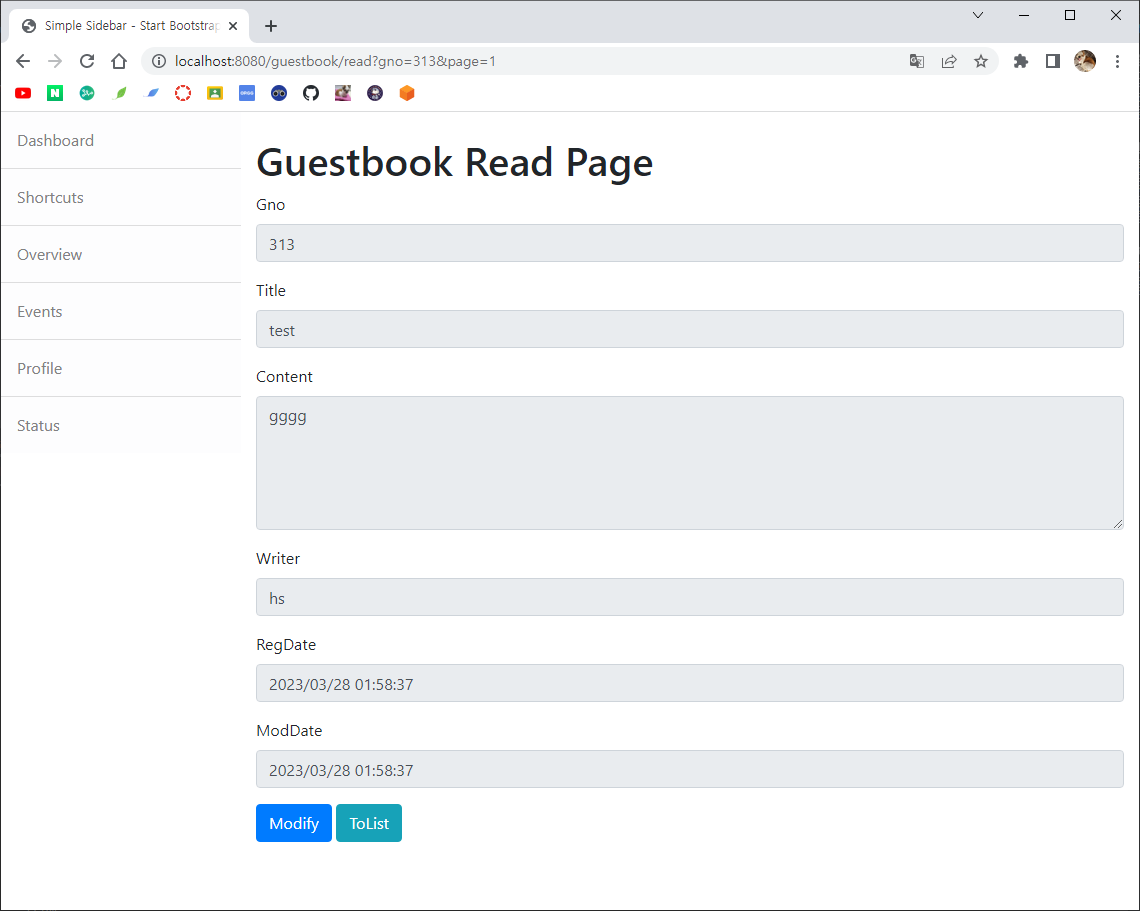
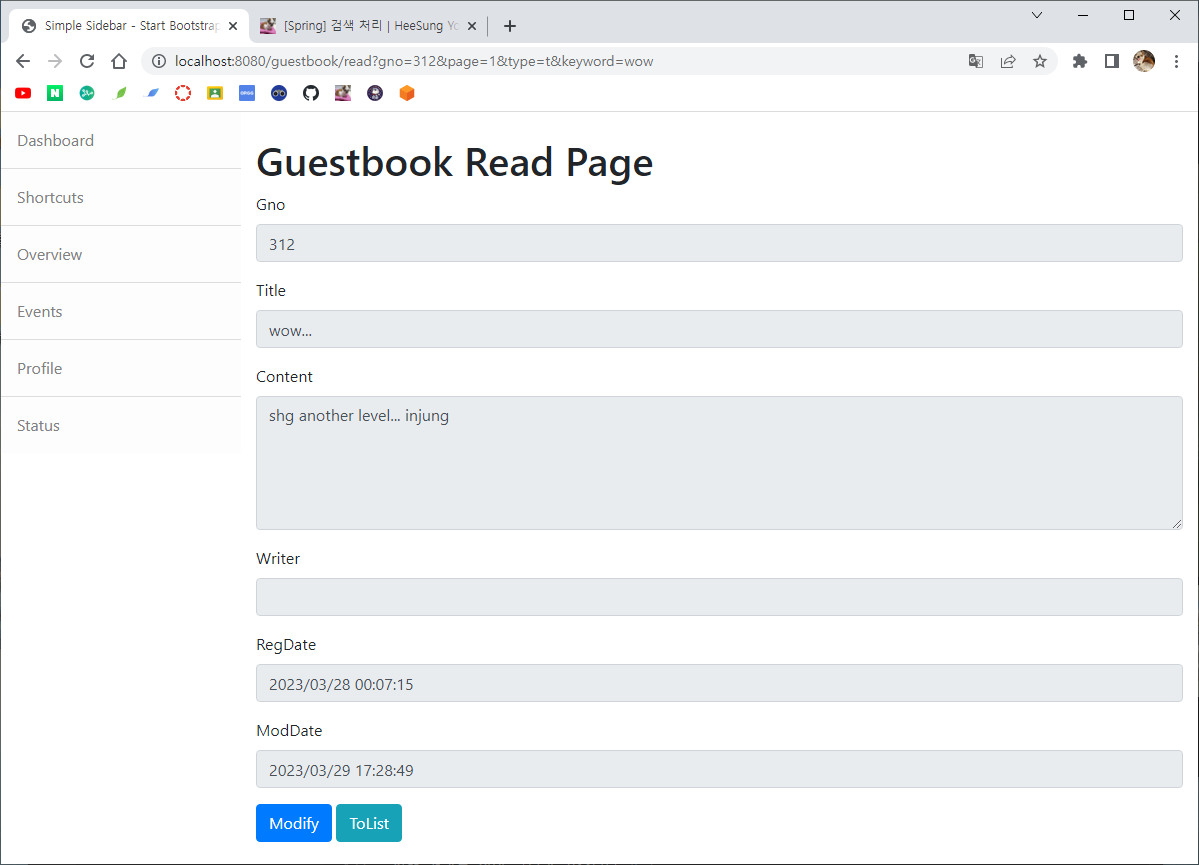
스프링 게시글 수정

diff --git a/_posts/study/spring/2023-03-29-[Spring]_검색_처리.md b/_posts/study/spring/2023-03-29-[Spring]_검색_처리.md
@@ -9,174 +9,241 @@ image:
     path: /assets/img/study_Web/spring/logo.png
 ---
 
-생성한 프로젝트의 엔티티와 Querydsl의 테스트를 수행해 봅시다.
+화면에서 검색 처리가 가능하도록 기능을 구현해봅시다.
 
 <!--more-->
 
 * this unordered seed list will be replaced by the toc
 {:toc}
 <br>
-Thymeleaf의 레이아웃은 JSP의 include와 같이 특정 부분을 외부, 내부에서 가져와 포함하는 형태와 특정한 부분을 파라미터로 전달해 내용에 포함하는 형태로 두 가지의 방식이 존재합니다. 먼저 include 형태부터 살펴보겠습니다.
+검색 처리는 PageRequestDTO에 type과 keyword를 추가하고 서비스 계층에서 Querydsl을 이용해 수행합니다. 이 때 제목, 내용, 작성자를 각각 t, c, w라고 할 때 't, w, c', 'tw', 'twc'와 같이 검색 항목을 여러개로 선택해 검색할 수 있도록합니다.
 
 ---
 <br>
 
-# 1. SampleController 코드 추가 (include 방식)
+# 1. PageRequestDTO 클래스 수정
 ---
 <br>
 
 ![1](/assets/img/study_Web/spring/2023-03-29-[Spring]_검색_처리/1.png)
 <br>
 
-실습을Controller에 위의 그림과 같은 exLayout1()을 추가합니다.<br>
+먼저 PageRequestDTO에 조건(type)과 키워드(keyword)를 추가합니다.
 
-# 2. fragment1.html 작성
+# 2. GuestbookServiceImpl 클래스 수정 (getSearch())
 ---
 <br>
 
 ![2](/assets/img/study_Web/spring/2023-03-29-[Spring]_검색_처리/2.png)
 <br>
 
-이번에 구현하고자 하는 exLayout.html은 내부적으로 다른 파일에 있는 일부분을 조각처럼 가져와 구성합니다. 이러한 조각이 될 수 있는 fragments 폴더를 작성하고 조각이 될 fragment1.html을 생성한 뒤 위와 같은 내용을 작성합니다.<br>
-th:fragment라는 태그를 통해 표현합니다.<br>
+Querydsl의 BooleanBuilder를 이용해 동적으로 검색 조건이 처리되게 하도록 GuestbookServiceImpl 내에 getSerach() 메소드를 작성합니다.<br>
+getSearc()는 매개변수로 PageRequestDTO를 받아와 type가 존재한다면 conditionBuilder를 사용해 각 검색 조건을 or로 연결해 처리합니다. 검색 조건이 없다면 모든 게시글이 나오도록 gn > 0을 조건으로 해 검색하도록 합니다.<br>
 
-# 3. exLayout1.html 작성
+
+# 3. GuestbookServiceImpl 클래스 수정 (getList())
 ---
 <br>
 
 ![3](/assets/img/study_Web/spring/2023-03-29-[Spring]_검색_처리/3.png)
 <br>
 
-이제 화면이 될 exLayout1.html을 추가한 뒤 fragment1.html의 조각들을 가져와 사용하는 코드를 작성합니다.<br>
-th:replace, th:insert, th:bolck th:replace를 사용해 fragment1의 조각을 각각 다르게 가져와보겠습니다.<br>
+이 때 목록을 가져오는 getList()를 수정해야 합니다.<br>
+기존의 pageable만 사용해 목록을 가져오는 것이 아닌 getSearch()의 반환값 booleanBuilder를 사용해 검색 조건과 같이 목록을 가져올 수 있도록 수정합니다.<br>
 
 
-# 4. exLayout1.html 실행 결과
+# 4. getSearch() 테스트
 ---
 <br>
 
 ![4](/assets/img/study_Web/spring/2023-03-29-[Spring]_검색_처리/4.png)
 <br>
 
-실행 결과 개발자 도구를 살펴보면 가져온 결과가 다른 것을 확인할 수 있습니다.<br>
-th:insert의 경우 th:replace와 달리 \<div\> 태그 내에 다시 \<div\> 태그가 생성된 것을 확인할 수 있습니다.<br>
+작성한 getSearch()를 통해 검색 조건이 잘 처리되나 testSearch() 메소드를 작성해 확인합니다.<br>
+검색 조건으로 제목과 내용 중 'shg'라는 단어가 포함된다면 결과를 출력하도록 테스트 코드를 작성합니다<br>
 
-# 5. fragment2.html 작성
+# 5. getSearch() 테스트 결과
 ---
 <br>
 
 ![5](/assets/img/study_Web/spring/2023-03-29-[Spring]_검색_처리/5.png)
 <br>
 
-이번엔 파일의 일부분을 가져오는 것이 아닌 파일의 전체를 가져오는 실습을 해보겠습니다.<br>
-실습을 위해 fragment2.html을 생성한 뒤 위와 같은 코드를 작성합니다.<br>
+실행 결과를 스텍트레이스를 통해 살펴보면 쿼리문 바깥에 gno > 0과 type과 쿼리문 안쪽에 keyword를 사용한 like문이 and로 처리되는 것을 확인할 수 있습니다.<br>
+검색의 결과로 312번 방명록이 검색되었고 검색된 방명록이 하나이기 때문에 목록의 Prev와 Next가 존재하지 않는 것을 알 수 있습니다.<br>
 
-# 6. exLayout1.html 코드 추가
+# 6. 브라우저로 getSearch() 결과
 ---
 <br>
 
 ![6](/assets/img/study_Web/spring/2023-03-29-[Spring]_검색_처리/6.png)
 <br>
 
-exLayout1.html에는 작성된 fragment2.html의 전체를 가져오는 부분을 추가합니다.<br>
-th:replace="~{/fragments/fragment2}"를 통해 fragment2의 전체를 가져옵니다.<br>
+브라우저에 type과 keyword를 지정한 url을 작성해 살펴보면 정상적으로 게시글이 검색되는 것을 확인할 수 있습니다.<br>
 
-# 7. exLayout1.html 실행 결과
+# 7. list.html 검색 항목 작성
 ---
 <br>
 
 ![7](/assets/img/study_Web/spring/2023-03-29-[Spring]_검색_처리/7.png)
 <br>
 
-실행 결과는 위의 그림과 같습니다.<br>
+검색 항목을 생성하기 위히 form을 작성합니다.<br>
+동일하게 List로 이동하도록 하지만 option과 input을 사용해 type과 keyword가 입력된 채로 출력도록 작성합니다.<br>
 
-# 8. SampleController 코드 추가 (파라미터 방식)
+# 8. 검색 항목 결과 
 ---
 <br>
 
-![8](/assets/img/study_Web/spring/2023-03-29-[Spring]_검색_처리/8.png)
+![8](/assets/img/study_Web/spring/2023-03-29-[Spring]_검색_처리/8m.png)
 <br>
 
-이번엔 파라미터 방식의 처리를 실습해보기위해 SampleController에 /exLayout2를 추가하겠습니다.<br>
+6번과 동일하게 type과 keyword를 지정한 url을 작성해 살펴보면 option과 input에 작성한 type과 keyword가 적혀있는 것을 확인할 수 있습니다.<br>
 
-# 9. fragment3.html 작성
+# 9. list.html 이벤트 처리 작성
 ---
 <br>
 
 ![9](/assets/img/study_Web/spring/2023-03-29-[Spring]_검색_처리/9.png)
 <br>
 
-fragment3.html에는 파라미터를 받는 th:fragment를 위의 그림과 같이 사용합니다.<br>
-선언된 target에는 first와 second라는 파라미터를 받을 수 있도록 구성하였고 내부적으로 th:block에 표현되고 있습니다.<br> 
+앞서 list.html에서 작성한 Search 버튼과 Clear 버튼의 이벤트를 처리하는 코드를 작성합니다.<br>
+'btn-search'를 클릭하면 검색 타입과 키워드로 1페이지를 검색하도록 작성하고 'btn-clear'를 클릭하면 모든 검색 내용을 삭제한 뒤 목록 페이지로 이동하도록 작성합니다.<br>
 
-# 10. exLayout2.html 작성
+# 10. 검색 결과 확인
 ---
 <br>
 
 ![10](/assets/img/study_Web/spring/2023-03-29-[Spring]_검색_처리/10.png)
 <br>
 
-실제 화면이 될 exLayout2.html을 작성합니다.<br>
-ex2Layout2.html은 화면 구성과 관련된 기능이 없이 target에 파라미터만을 사용하는 것을 볼 수 있습니다. ulFirst, ulSecond가 fragment3의 내용의 일부로 전달되고 이를 사용하게 됩니다.
+브라우저에서 조건을 입력한 뒤 Search 버튼을 누른 결과 정상적으로 검색이 되는 것을 확인할 수 있습니다.<br>
 
-# 11. exLayout2.html 실행 결과
+# 11. 초기화 결과 확인
 ---
 <br>
 
 ![11](/assets/img/study_Web/spring/2023-03-29-[Spring]_검색_처리/11.png)
 <br>
 
-실행 결과 fragment3.html의 코드에 exLayout2.html에서 전달된 태그들이 포함되어 출력된 것을 확인할 수 있습니다.<br>
+브라우저에서 Clear 버튼을 누른 결과 모든 조건이 지워진 뒤 1페이지로 이동하는 것을 확인할 수 있습니다.<br>
 
-# 12. 레이아웃 템플릿 만들기
+# 12. list.html 페이지 번호 검색 조건 추가
 ---
 <br>
 
 ![12](/assets/img/study_Web/spring/2023-03-29-[Spring]_검색_처리/12.png)
 <br>
 
-레이아웃 전체를 하나의 페이지로 구성하고 필요한 부분을 파라미터로 전달하는 방식으로 공통의 레이아웃을 사용할 수 있습니다.<br>
-temlpates 폴더 내에 layout이라는 폴더를 생성하고 layout1.html을 작성합니다.
+목록 페이지 하단의 페이지 번호가 검색 후 나온 결과들의 페이지 번호를 출력하도록 코드를 작성합니다.<br>
+기존의 하단 페이지 번호의 링크 '/guestbook/list(page = ...)'으로 처리된 부분에 type과 keyword를 추가합니다.
 
-# 13. layout1.html 웹 브라우저로 실행
+
+# 13. gno 링크 검색 조건 추가
 ---
 <br>
 
 ![13](/assets/img/study_Web/spring/2023-03-29-[Spring]_검색_처리/13.png)
 <br>
 
-브라우저로 실행한 결과는 위의 그림과 같습니다.<br>
+gno를 눌러 read 페이지로 가는 것 또한 12번과 같이 type과 keyword를 추가해 처리합니다.<br>
 
-# 14. CONTENT 영역을 변경할 수 있도록 수정
+# 14. 페이지 번호 검색 조건 추가 결과
 ---
 <br>
 
 ![14](/assets/img/study_Web/spring/2023-03-29-[Spring]_검색_처리/14.png)
 <br>
 
-실제 개발을 한다면 중간 CONTENT 영역이 다른 내용으로 변경할 수 있도록 만들어야 합니다.<br>
-화면 전체를 하나의 템플릿으로 만들고 중간의 CONTENT 영역을 변경 가능하도록 수정합니다.<br>
-상단에 th:fragment를 setContent로 지정해 content라는 파라미터를 받을 수 있게 합니다.<br>
-화면 중간은 파라미터로 전달되는 content를 표시하게 합니다.<br>
-하단부에는 작성한 th:block을 닫아주는 코드를 작성합니다.<br>
+목록 페이지 하단의 페이지 번호가 검색 결과를 반영하는지 확인합니다.<br>
+글 제목에 10이 들어간 방명록을 조회한 뒤 2번 페이지로 이동한 결과 정상적으로 페이지의 이동에 type과 keyword가 반영된 것을 확인할 수 있습니다.
 
-# 15. exTemplate.html 작성
+# 15. gno 링크 검색 조건 추가 결과
 ---
 <br>
 
 ![15](/assets/img/study_Web/spring/2023-03-29-[Spring]_검색_처리/15.png)
 <br>
 
-exTemplate.html을 위와 같이 작성합니다.<br>
-이 때 SampleController에 /exTemplate를 작성 완료한 상태입니다.<br>
-파일 전체 내용은 layout1.html로 전달하고 현재 파일에 적은 content 부분을 전달합니다.
+gno 링크를 통한 read 페이지 이동이 검색 조건을 반영하는지 확인합니다.<br>
+제목에 wow를 검색한 뒤 read 페이지로 이동한 결과 정상적으로 type과 keyword가 반영된 것을 확인할 수 있습니다.
 
-# 16. exTemplate.html 실행 결과
+# 16. read.html 검색 조건 추가
 ---
 <br>
 
 ![16](/assets/img/study_Web/spring/2023-03-29-[Spring]_검색_처리/16.png)
 <br>
 
-실행 결과는 위의 그림과 같습니다.<br>
-exTemplate.html에서 작성한 exTemplate Page를 content에 담아 layout1에 넘겨주었고 전체적인 레이아웃으로 layout1.html의 내용이 사용된 것을 확인할 수 있습니다.
+조회 페이지에서 목록 페이지로 돌아갈 때 또한 검색 조건을 추가합니다.<br>
+read.html의 Modify와 ToList 버튼에 type과 keyword를 넘기도록 작성합니다.<br>
+
+# 17. read.html 검색 조건 추가
+---
+<br>
+
+![17](/assets/img/study_Web/spring/2023-03-29-[Spring]_검색_처리/17.png)
+<br>
+
+조회 페이지에서 목록 페이지로 돌아갈 때 또한 검색 조건을 추가합니다.<br>
+read.html의 Modify와 ToList 버튼에 type과 keyword를 넘기도록 작성합니다.<br>
+
+# 18. read.html 검색 조건 추가
+---
+<br>
+
+![18](/assets/img/study_Web/spring/2023-03-29-[Spring]_검색_처리/18.png)
+<br>
+
+조회 페이지에서 목록 페이지로 돌아갈 때 또한 검색 조건을 추가합니다.<br>
+read.html의 Modify와 ToList 버튼에 type과 keyword를 넘기도록 작성합니다.<br>
+
+# 19. read.html 검색 조건 추가
+---
+<br>
+
+![19](/assets/img/study_Web/spring/2023-03-29-[Spring]_검색_처리/19.png)
+<br>
+
+조회 페이지에서 목록 페이지로 돌아갈 때 또한 검색 조건을 추가합니다.<br>
+read.html의 Modify와 ToList 버튼에 type과 keyword를 넘기도록 작성합니다.<br>
+
+# 20. read.html 검색 조건 추가
+---
+<br>
+
+![20](/assets/img/study_Web/spring/2023-03-29-[Spring]_검색_처리/20.png)
+<br>
+
+조회 페이지에서 목록 페이지로 돌아갈 때 또한 검색 조건을 추가합니다.<br>
+read.html의 Modify와 ToList 버튼에 type과 keyword를 넘기도록 작성합니다.<br>
+
+# 21. read.html 검색 조건 추가
+---
+<br>
+
+![21](/assets/img/study_Web/spring/2023-03-29-[Spring]_검색_처리/21.png)
+<br>
+
+조회 페이지에서 목록 페이지로 돌아갈 때 또한 검색 조건을 추가합니다.<br>
+read.html의 Modify와 ToList 버튼에 type과 keyword를 넘기도록 작성합니다.<br>
+
+# 22. read.html 검색 조건 추가
+---
+<br>
+
+![22](/assets/img/study_Web/spring/2023-03-29-[Spring]_검색_처리/22.png)
+<br>
+
+조회 페이지에서 목록 페이지로 돌아갈 때 또한 검색 조건을 추가합니다.<br>
+read.html의 Modify와 ToList 버튼에 type과 keyword를 넘기도록 작성합니다.<br>
+
+# 23. read.html 검색 조건 추가
+---
+<br>
+
+![23](/assets/img/study_Web/spring/2023-03-29-[Spring]_검색_처리/23.png)
+<br>
+
+조회 페이지에서 목록 페이지로 돌아갈 때 또한 검색 조건을 추가합니다.<br>
+read.html의 Modify와 ToList 버튼에 type과 keyword를 넘기도록 작성합니다.<br>
